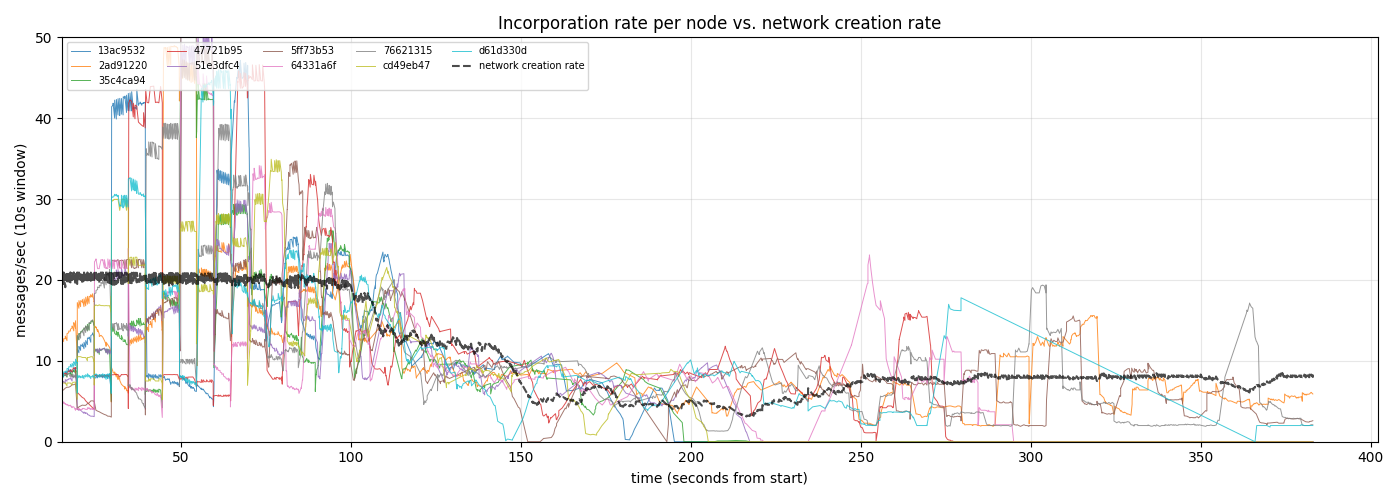
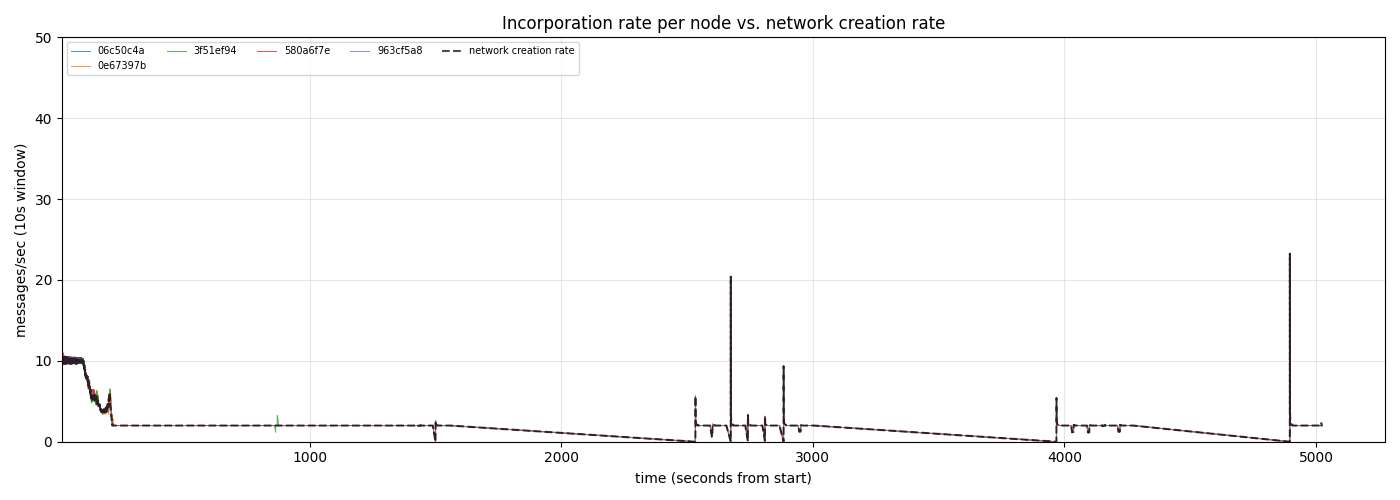
Analyze long run of 5-node swarm, one node falls behind, likely caused by send of reactive resolves blocking receives

diff --git a/analysis/swarm_viz.py b/analysis/swarm_viz.py
@@ -36,7 +36,7 @@ def _():
 @app.cell
 def _(Path, mo, re):
     _notebook_dir = Path(mo.notebook_dir())
-    LOG_FILE = str(_notebook_dir / "../swarm2.log")
+    LOG_FILE = str(_notebook_dir / "../swarm5.log")
     OUT_DIR = _notebook_dir
 
     RECEIVED_RE = re.compile(
@@ -59,22 +59,42 @@ def _(Path, mo, re):
         r'time=(\S+)\s+level=\S+\s+msg="sending wanted request"\s+'
         r'node=([0-9a-f]+)\s+peer=([0-9a-f]+)\s+wanted=(\d+)\s+frontier=(\d+)'
     )
+
+    CONNECT_RE = re.compile(
+        r'time=(\S+)\s+level=\S+\s+msg=connected\s+'
+        r'node=([0-9a-f]+)\s+peer=([0-9a-f]+)'
+    )
+
+    DISCONNECT_RE = re.compile(
+        r'time=(\S+)\s+level=\S+\s+msg="disconnected from peer"\s+'
+        r'node=([0-9a-f]+)\s+peer=([0-9a-f]+)'
+    )
+
+    SHUTDOWN_RE = re.compile(
+        r'time=(\S+)\s+level=\S+\s+msg="shutting down"'
+    )
     return (
+        CONNECT_RE,
         CREATED_RE,
+        DISCONNECT_RE,
         LOG_FILE,
         OUT_DIR,
         RECEIVED_RE,
         RESOLVE_RE,
+        SHUTDOWN_RE,
         WANTED_REQ_RE,
     )
 
 
 @app.cell
 def _(
+    CONNECT_RE,
     CREATED_RE,
+    DISCONNECT_RE,
     LOG_FILE,
     RECEIVED_RE,
     RESOLVE_RE,
+    SHUTDOWN_RE,
     WANTED_REQ_RE,
     datetime,
     defaultdict,
@@ -91,9 +111,18 @@ def _(
         created = defaultdict(list)    # node -> [(t, peers, incorporated)]
         resolved = defaultdict(list)   # node -> [(t, peer, sending)]
         wanted_reqs = defaultdict(list) # node -> [(t, peer, wanted_count)]
+        connections = defaultdict(set)  # node -> set of connected peer IDs
+        shutdown_t = None
         t0 = None
         with open(path) as f:
             for line in f:
+                # Check for shutdown marker
+                _m = SHUTDOWN_RE.search(line)
+                if _m:
+                    _elapsed, t0 = parse_timestamp(_m.group(1), t0)
+                    shutdown_t = _elapsed
+                    continue
+
                 m = RECEIVED_RE.search(line)
                 if m:
                     ts_str, _node, inc, pend, want = m.groups()
@@ -117,30 +146,71 @@ def _(
                     ts_str, _node, _peer, wanted_count, _frontier = m.groups()
                     elapsed, t0 = parse_timestamp(ts_str, t0)
                     wanted_reqs[_node].append((elapsed, _peer, int(wanted_count)))
-        return (received, created, resolved, wanted_reqs)
-    received, created, resolved, wanted_reqs = parse_log(LOG_FILE)
+                    continue
+                m = CONNECT_RE.search(line)
+                if m:
+                    ts_str, _node, _peer = m.groups()
+                    elapsed, t0 = parse_timestamp(ts_str, t0)
+                    if shutdown_t is None or elapsed < shutdown_t:
+                        connections[_node].add(_peer)
+                    continue
+                m = DISCONNECT_RE.search(line)
+                if m:
+                    ts_str, _node, _peer = m.groups()
+                    elapsed, t0 = parse_timestamp(ts_str, t0)
+                    if shutdown_t is None or elapsed < shutdown_t:
+                        connections[_node].discard(_peer)
+                    continue
+        return (received, created, resolved, wanted_reqs, connections)
+    received, created, resolved, wanted_reqs, connections = parse_log(LOG_FILE)
     print(f'Received:     {sum((len(v) for v in received.values()))} entries across {len(received)} nodes')
     print(f'Created:      {sum((len(v) for v in created.values()))} entries across {len(created)} nodes')
     print(f'Resolved:     {sum((len(v) for v in resolved.values()))} entries across {len(resolved)} nodes')
     print(f'Wanted reqs:  {sum((len(v) for v in wanted_reqs.values()))} entries across {len(wanted_reqs)} nodes')
-    return created, received, resolved, wanted_reqs
+    print(f'Connections:  {sum(len(v) for v in connections.values()) // 2} edges across {len(connections)} nodes')
+    return connections, created, received, resolved, wanted_reqs
 
 
 @app.cell
 def _(OUT_DIR, plt, received):
+    import numpy as _np
+
+    # Build a common time grid and interpolate each node's values onto it
+    _all_times = sorted({r[0] for node in received.values() for r in node})
+    _time_grid = _np.linspace(_all_times[0], _all_times[-1], 500)
+    _nodes = sorted(received.keys())
+
+    def _interpolate(node_data, idx):
+        _t = [r[0] for r in node_data]
+        _v = [r[idx] for r in node_data]
+        return _np.interp(_time_grid, _t, _v)
+
     fields = ['incorporated', 'pending', 'wanted']
     _fig, axes = plt.subplots(3, 1, figsize=(14, 10), sharex=True)
     for _ax, field, idx in zip(axes, fields, [1, 2, 3]):
-        for _node in sorted(received):
+        # Per-node lines
+        _interp_vals = []
+        for _node in _nodes:
             _data = received[_node]
             _t = [r[0] for r in _data]
             v = [r[idx] for r in _data]
             _ax.plot(_t, v, label=_node, linewidth=0.7, alpha=0.85)
+            _interp_vals.append(_interpolate(_data, idx))
+
+        # Std dev on right axis
+        _stacked = _np.vstack(_interp_vals)
+        _std = _np.std(_stacked, axis=0)
+        _ax2 = _ax.twinx()
+        _ax2.fill_between(_time_grid, _std, alpha=0.15, color='red')
+        _ax2.plot(_time_grid, _std, color='red', linewidth=1, alpha=0.6, label='std dev')
+        _ax2.set_ylabel('std dev', color='red', fontsize=8)
+        _ax2.tick_params(axis='y', labelcolor='red', labelsize=7)
+
         _ax.set_ylabel(field)
         _ax.legend(fontsize=7, ncol=5, loc='upper left')
         _ax.grid(True, alpha=0.3)
     axes[-1].set_xlabel('time (seconds from start)')
-    axes[0].set_title('Swarm node state over time')
+    axes[0].set_title('Swarm node state over time (red shading = std dev across nodes)')
     _fig.tight_layout()
     _fig.savefig(OUT_DIR / 'out_state.png', dpi=100)
     _fig
@@ -324,14 +394,19 @@ def _(OUT_DIR, plt, received, resolved, wanted_reqs):
     _fig, _axes = plt.subplots(1, 2, figsize=(14, 5))
 
     # Left: pie chart of who behind nodes asked
-    _axes[0].pie(
-        [len(ask_behind), len(ask_caught)],
-        labels=[f'Asked behind peer\n({len(ask_behind)})', f'Asked caught-up peer\n({len(ask_caught)})'],
-        colors=['#e74c3c', '#2ecc71'],
-        autopct='%1.0f%%',
-        startangle=90
-    )
-    _axes[0].set_title(f'Who do behind nodes ask for help?\n(second half, {total_asks} requests)')
+    if total_asks > 0:
+        _axes[0].pie(
+            [len(ask_behind), len(ask_caught)],
+            labels=[f'Asked behind peer\n({len(ask_behind)})', f'Asked caught-up peer\n({len(ask_caught)})'],
+            colors=['#e74c3c', '#2ecc71'],
+            autopct='%1.0f%%',
+            startangle=90
+        )
+        _axes[0].set_title(f'Who do behind nodes ask for help?\n(second half, {total_asks} requests)')
+    else:
+        _axes[0].text(0.5, 0.5, f'No behind nodes\n({len(caught_up_nodes)} caught up)',
+                      ha='center', va='center', fontsize=14, color='#2ecc71')
+        _axes[0].set_title('Who do behind nodes ask for help?')
 
     # Right: box plot of resolve batch sizes by responder type
     _bp_data = []
@@ -411,6 +486,75 @@ def _(OUT_DIR, plt, received, wanted_reqs):
     )
     _fig.tight_layout()
     _fig.savefig(OUT_DIR / 'out_wanted_timeline.png', dpi=100)
+    _fig
+    return
+
+
+@app.cell(hide_code=True)
+def _(mo):
+    mo.md(r"""
+    ## Final connection topology
+
+    Shows the peer-to-peer connection graph at the end of the run (before shutdown).
+    Node size is proportional to final incorporated count. Node color indicates coverage
+    (fraction of total messages incorporated). Edge connections show which nodes are peers.
+    """)
+    return
+
+
+@app.cell
+def _(OUT_DIR, connections, plt, received):
+    import math
+
+    _all_nodes = sorted(set(connections.keys()) | set(received.keys()))
+    _total_created = max(r[1] for node in received.values() for r in node)
+
+    # Final incorporated count per node
+    _final_inc = {}
+    for _n in _all_nodes:
+        if received.get(_n):
+            _final_inc[_n] = received[_n][-1][1]
+        else:
+            _final_inc[_n] = 0
+
+    # Layout: circular
+    _n_nodes = len(_all_nodes)
+    _pos = {}
+    for _i, _n in enumerate(_all_nodes):
+        _angle = 2 * math.pi * _i / _n_nodes
+        _pos[_n] = (math.cos(_angle), math.sin(_angle))
+
+    _fig, _ax = plt.subplots(figsize=(10, 10))
+
+    # Draw edges
+    _drawn_edges = set()
+    for _n in _all_nodes:
+        for _p in connections.get(_n, set()):
+            _edge = tuple(sorted([_n, _p]))
+            if _edge not in _drawn_edges:
+                _drawn_edges.add(_edge)
+                _x = [_pos[_n][0], _pos[_p][0]]
+                _y = [_pos[_n][1], _pos[_p][1]]
+                _ax.plot(_x, _y, 'k-', alpha=0.3, linewidth=1)
+
+    # Draw nodes
+    for _n in _all_nodes:
+        _coverage = _final_inc[_n] / _total_created if _total_created > 0 else 0
+        _size = 200 + 800 * _coverage
+        _color = plt.cm.RdYlGn(_coverage)
+        _ax.scatter(*_pos[_n], s=_size, c=[_color], edgecolors='black', linewidths=1, zorder=5)
+        _label = f'{_n[:8]}\n{_final_inc[_n]}'
+        _ax.annotate(_label, _pos[_n], textcoords="offset points",
+                     xytext=(0, -20), ha='center', fontsize=7)
+
+    _ax.set_title(f'Final connection topology ({len(_drawn_edges)} edges, {_n_nodes} nodes)\n'
+                  f'Node size/color = incorporation coverage (green=high, red=low)')
+    _ax.set_xlim(-1.5, 1.5)
+    _ax.set_ylim(-1.5, 1.5)
+    _ax.set_aspect('equal')
+    _ax.axis('off')
+    _fig.tight_layout()
+    _fig.savefig(OUT_DIR / 'out_topology.png', dpi=100)
     _fig
     return
 
